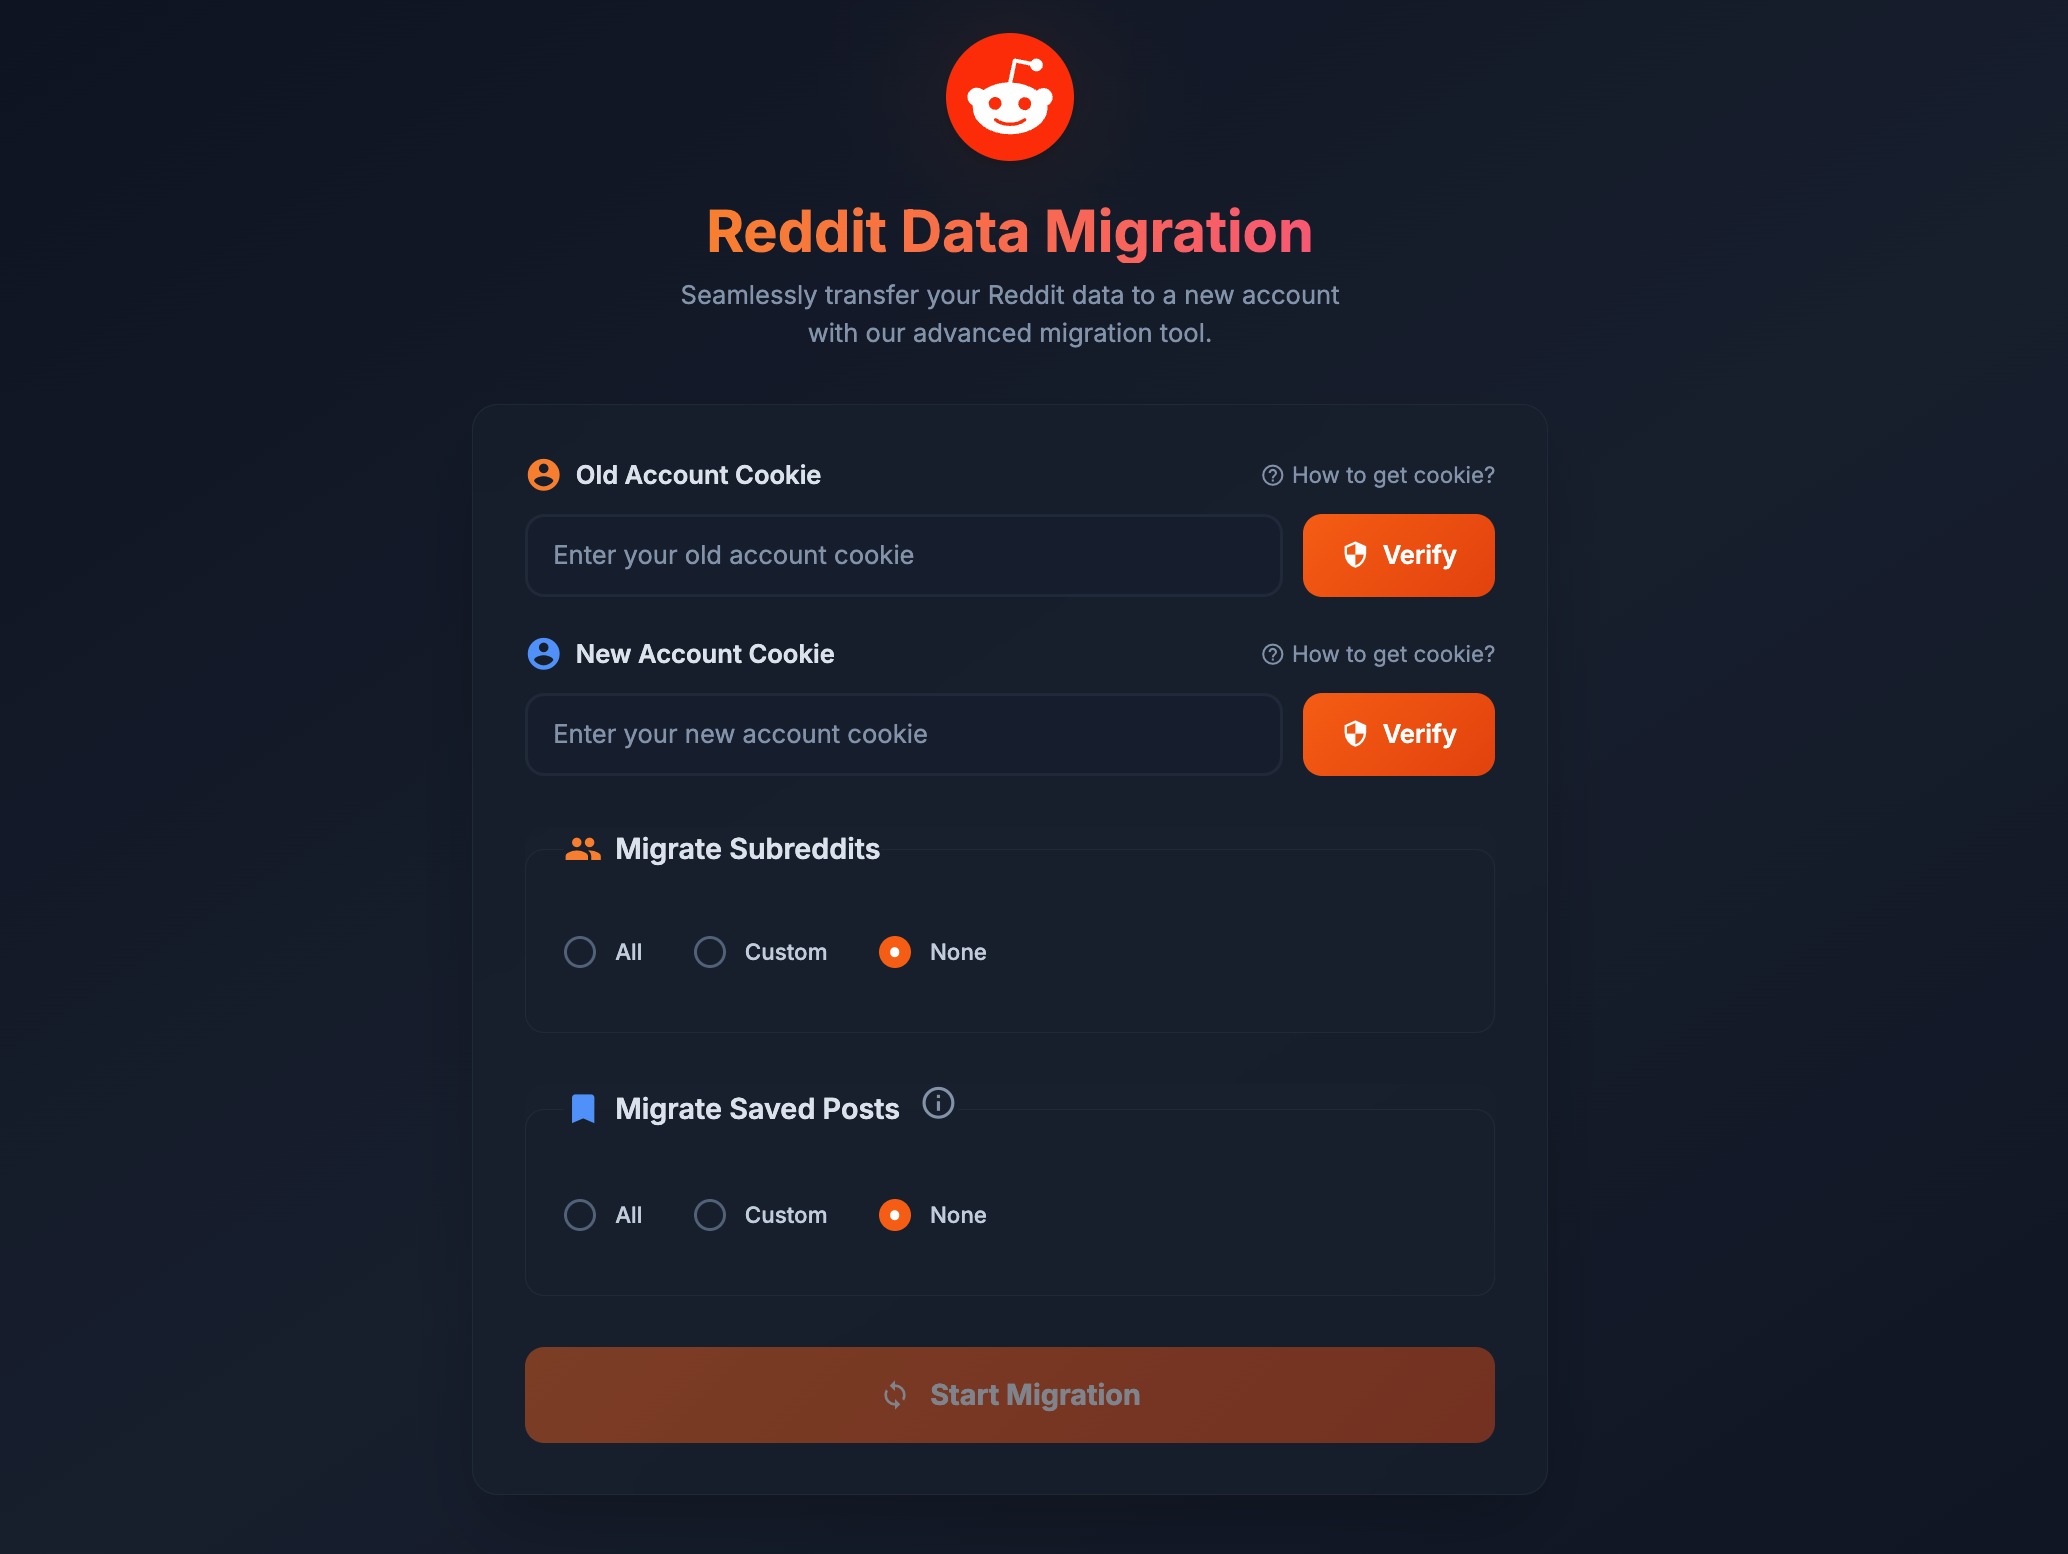
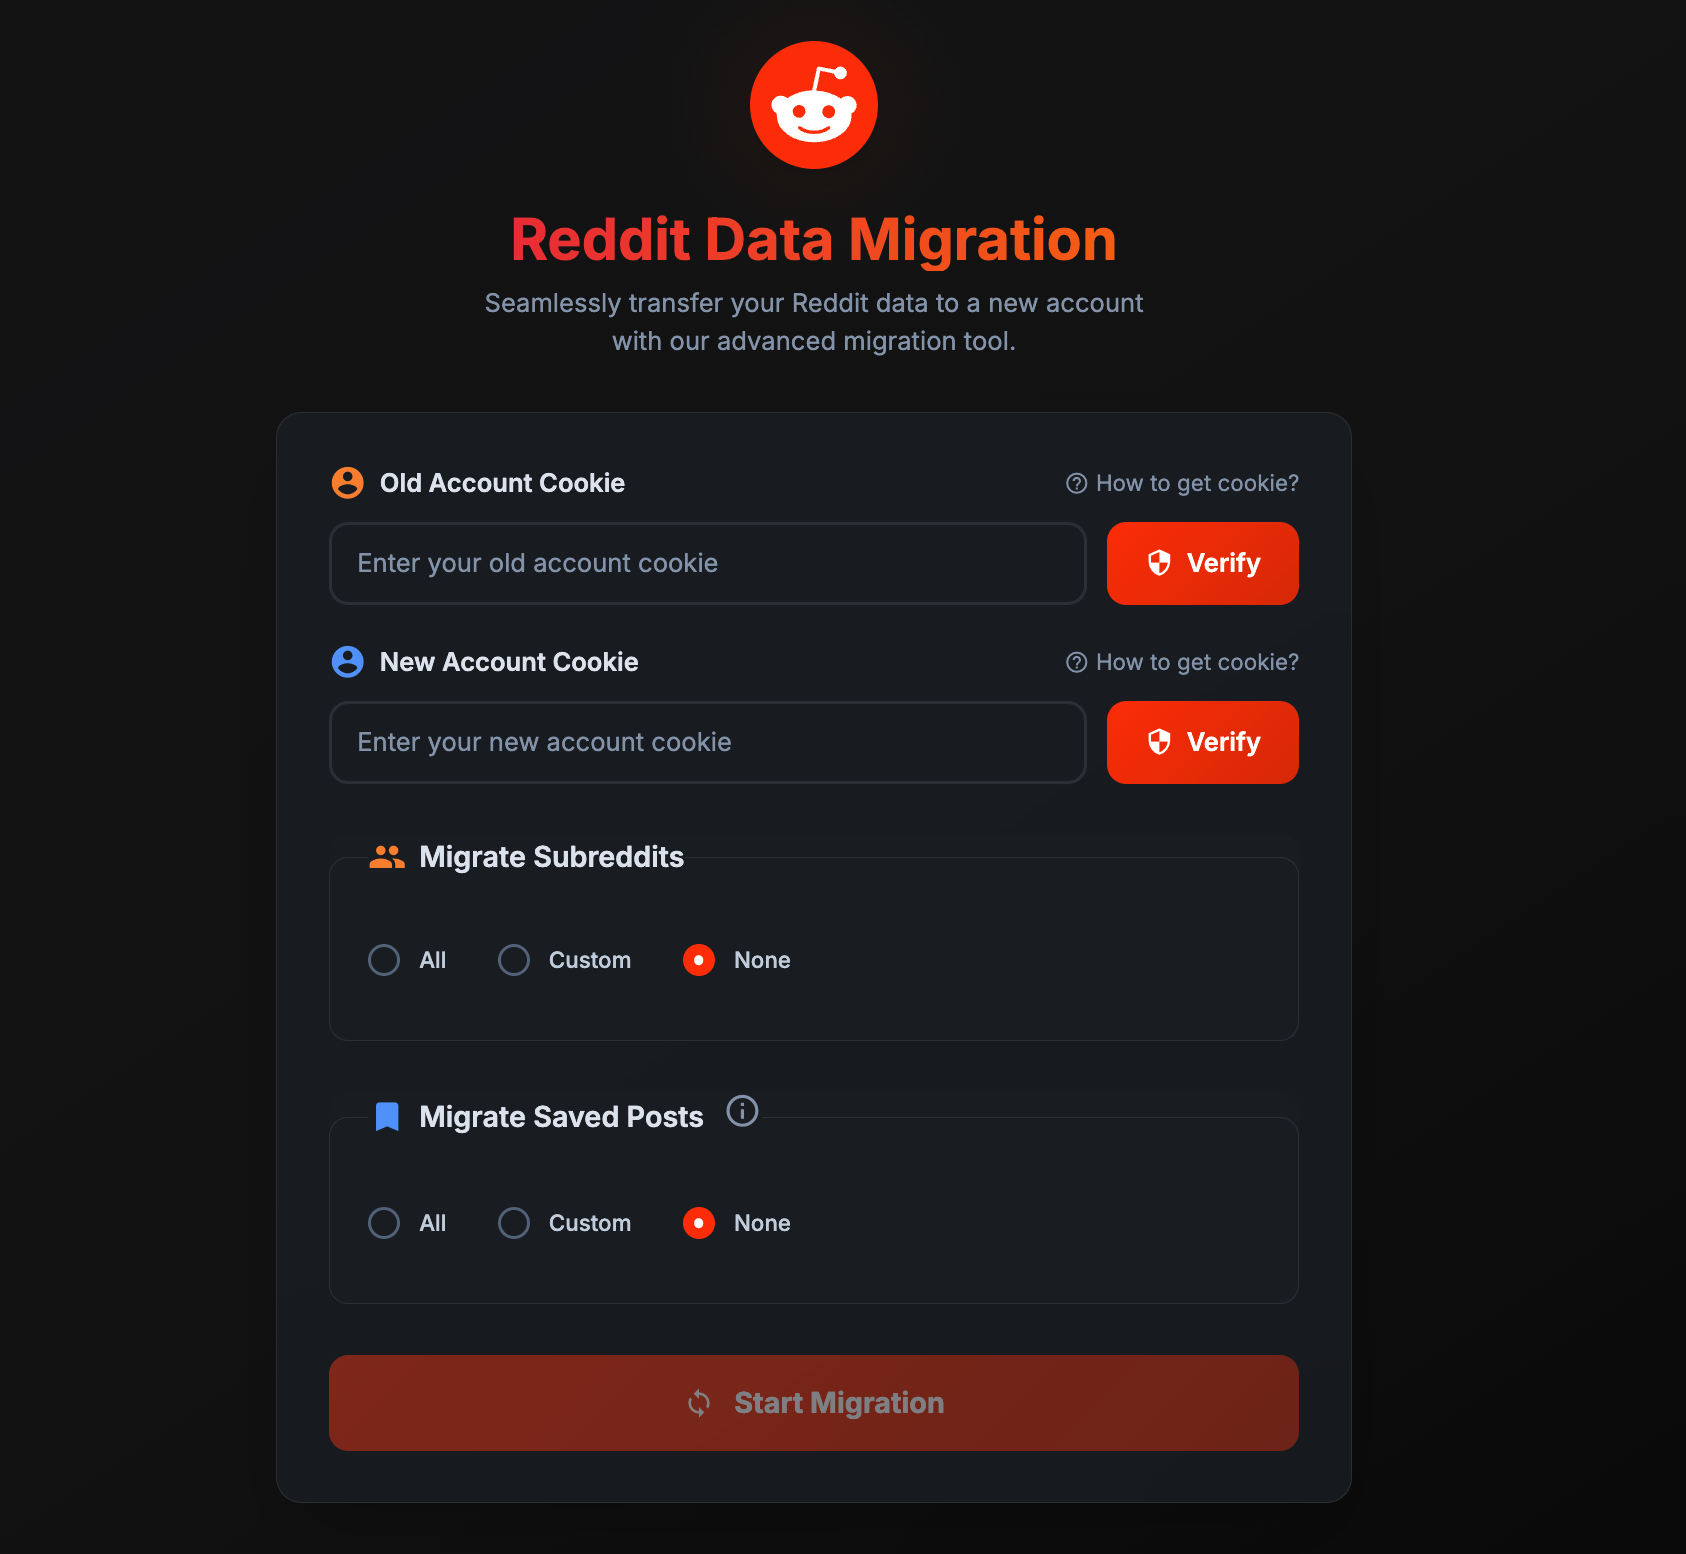
feat: update UI styles and assets for Reddit migration tool similar to Reddit
- Updated button styles and form inputs in index.html to align with Reddit's branding.
- Enhanced dark and light mode themes for improved user experience.
- Updated app_home.png asset to reflect new design changes.

diff --git a/web/static/index.html b/web/static/index.html
@@ -68,27 +68,27 @@
             background: #9ca3af;
         }
 
-        /* Enhanced button styles */
+        /* Enhanced button styles - Reddit Orange Theme */
         .btn-primary {
-            background: linear-gradient(135deg, #f97316 0%, #ea580c 100%);
+            background: linear-gradient(135deg, #FF4500 0%, #e03e00 100%);
             transition: all 0.2s ease;
         }
 
         .btn-primary:hover {
-            background: linear-gradient(135deg, #ea580c 0%, #dc2626 100%);
+            background: linear-gradient(135deg, #e03e00 0%, #cc3700 100%);
             transform: translateY(-1px);
-            box-shadow: 0 4px 12px rgba(249, 115, 22, 0.4);
+            box-shadow: 0 4px 12px rgba(255, 69, 0, 0.4);
         }
 
         .btn-secondary {
-            background: linear-gradient(135deg, #3b82f6 0%, #2563eb 100%);
+            background: linear-gradient(135deg, #0079D3 0%, #0066B3 100%);
             transition: all 0.2s ease;
         }
 
         .btn-secondary:hover {
-            background: linear-gradient(135deg, #2563eb 0%, #1d4ed8 100%);
+            background: linear-gradient(135deg, #0066B3 0%, #005299 100%);
             transform: translateY(-1px);
-            box-shadow: 0 4px 12px rgba(59, 130, 246, 0.4);
+            box-shadow: 0 4px 12px rgba(0, 121, 211, 0.4);
         }
 
         .btn-success {
@@ -114,14 +114,14 @@
         }
 
         .btn-light-secondary {
-            background: linear-gradient(135deg, #60a5fa 0%, #3b82f6 100%);
+            background: linear-gradient(135deg, #0079D3 0%, #0066B3 100%);
             transition: all 0.2s ease;
         }
 
         .btn-light-secondary:hover {
-            background: linear-gradient(135deg, #3b82f6 0%, #2563eb 100%);
+            background: linear-gradient(135deg, #0066B3 0%, #005299 100%);
             transform: translateY(-1px);
-            box-shadow: 0 4px 12px rgba(96, 165, 250, 0.4);
+            box-shadow: 0 4px 12px rgba(0, 121, 211, 0.4);
         }
 
         .btn-light-cancel {
@@ -135,20 +135,20 @@
             box-shadow: 0 4px 12px rgba(148, 163, 184, 0.4);
         }
 
-        /* Enhanced form inputs */
+        /* Enhanced form inputs - Reddit style */
         .form-input {
-            background: rgba(30, 41, 59, 0.5);
-            border: 2px solid rgba(71, 85, 105, 0.3);
+            background: rgba(33, 38, 45, 0.5);
+            border: 2px solid rgba(114, 118, 125, 0.3);
             transition: all 0.2s ease;
         }
 
         .form-input:focus {
-            background: rgba(30, 41, 59, 0.8);
-            border-color: #f97316;
-            box-shadow: 0 0 0 3px rgba(249, 115, 22, 0.1);
+            background: rgba(33, 38, 45, 0.8);
+            border-color: #FF4500;
+            box-shadow: 0 0 0 3px rgba(255, 69, 0, 0.1);
         }
 
-        /* Custom radio button styling */
+        /* Custom radio button styling - Reddit Orange */
         .custom-radio {
             appearance: none;
             width: 1.25rem;
@@ -162,8 +162,8 @@
         }
 
         .custom-radio:checked {
-            border-color: #f97316;
-            background: #f97316;
+            border-color: #FF4500;
+            background: #FF4500;
         }
 
         .custom-radio:checked::after {
@@ -178,11 +178,11 @@
             background: white;
         }
 
-        /* Glassmorphism effect */
+        /* Glassmorphism effect - Reddit Dark Theme */
         .glass-card {
-            background: rgba(30, 41, 59, 0.7);
+            background: rgba(33, 38, 45, 0.8);
             backdrop-filter: blur(20px);
-            border: 1px solid rgba(71, 85, 105, 0.3);
+            border: 1px solid rgba(114, 118, 125, 0.3);
         }
 
         /* Enhanced animations */
@@ -219,90 +219,90 @@
             animation: pulse-custom 2s cubic-bezier(0.4, 0, 0.6, 1) infinite;
         }
 
-        /* Light mode styles */
+        /* Light mode styles - Reddit Light Theme */
         .light-mode {
-            color: #1e293b !important;
+            color: #1c1c1c !important;
         }
 
         .light-mode .glass-card {
-            background: rgba(255, 255, 255, 0.8) !important;
+            background: rgba(255, 255, 255, 0.9) !important;
             backdrop-filter: blur(20px);
-            border: 1px solid rgba(203, 213, 225, 0.3) !important;
+            border: 1px solid rgba(237, 239, 241, 0.8) !important;
         }
 
         .light-mode .form-input {
-            background: rgba(255, 255, 255, 0.8) !important;
-            border: 2px solid rgba(203, 213, 225, 0.5) !important;
-            color: #1e293b !important;
+            background: rgba(255, 255, 255, 0.9) !important;
+            border: 2px solid rgba(237, 239, 241, 0.8) !important;
+            color: #1c1c1c !important;
         }
 
         .light-mode .form-input::placeholder {
-            color: #64748b !important;
+            color: #787c82 !important;
         }
 
         .light-mode .form-input:focus {
-            background: rgba(255, 255, 255, 0.9) !important;
-            border-color: #f97316 !important;
+            background: rgba(255, 255, 255, 1) !important;
+            border-color: #FF4500 !important;
         }
 
         .light-mode .text-slate-200 {
-            color: #1e293b !important;
+            color: #1c1c1c !important;
         }
 
         .light-mode .text-slate-300 {
-            color: #475569 !important;
+            color: #4c5155 !important;
         }
 
         .light-mode .text-slate-400 {
-            color: #64748b !important;
+            color: #787c82 !important;
         }
 
         .light-mode .border-slate-600 {
-            border-color: #cbd5e1 !important;
+            border-color: #edeff1 !important;
         }
 
         .light-mode .border-slate-700 {
-            border-color: #e2e8f0 !important;
+            border-color: #edeff1 !important;
         }
 
         .light-mode .bg-slate-700\/30 {
-            background: rgba(241, 245, 249, 0.8) !important;
+            background: rgba(246, 247, 248, 0.8) !important;
         }
 
         .light-mode .custom-radio {
-            border-color: #94a3b8 !important;
+            border-color: #a8aaab !important;
         }
 
         /* Light mode modal and text enhancements */
         .light-mode .text-slate-100 {
-            color: #0f172a !important;
+            color: #1c1c1c !important;
         }
 
         .light-mode #modalTitle {
-            color: #0f172a !important;
+            color: #1c1c1c !important;
         }
 
         .light-mode #itemsList {
-            background: rgba(255, 255, 255, 0.9) !important;
-            border-color: #cbd5e1 !important;
+            background: rgba(255, 255, 255, 0.95) !important;
+            border-color: #edeff1 !important;
         }
 
         .light-mode .item-row {
-            border-color: #e2e8f0 !important;
+            border-color: #edeff1 !important;
         }
 
         .light-mode .item-row:hover {
-            background: rgba(248, 250, 252, 0.8) !important;
+            background: rgba(246, 247, 248, 0.9) !important;
         }
 
         .light-mode #searchInput {
-            background: rgba(255, 255, 255, 0.9) !important;
-            border-color: #cbd5e1 !important;
-            color: #1e293b !important;
+            background: rgba(255, 255, 255, 0.95) !important;
+            border-color: #edeff1 !important;
+            color: #1c1c1c !important;
         }
 
         .light-mode #searchInput::placeholder {
-            color: #64748b !important;
+            color: #787c82 !important;
         }
 
         .light-mode .bg-black {
@@ -311,40 +311,40 @@
 
         .light-mode #selectedCount,
         .light-mode #totalCount {
-            color: #1e293b !important;
+            color: #1c1c1c !important;
         }
 
         .light-mode .text-orange-400 {
-            color: #ea580c !important;
+            color: #FF4500 !important;
         }
 
         /* Fix modal text colors in light mode */
         .light-mode #selectionModal .text-slate-200 {
-            color: #1e293b !important;
+            color: #1c1c1c !important;
         }
 
         .light-mode #selectionModal .text-slate-300 {
-            color: #475569 !important;
+            color: #4c5155 !important;
         }
 
         .light-mode #selectionModal .text-slate-400 {
-            color: #64748b !important;
+            color: #787c82 !important;
         }
 
         .light-mode #cookieHelpModal .text-slate-200 {
-            color: #1e293b !important;
+            color: #1c1c1c !important;
         }
 
         .light-mode #cookieHelpModal .text-slate-300 {
-            color: #475569 !important;
+            color: #4c5155 !important;
         }
 
         .light-mode #cookieHelpModal .text-slate-400 {
-            color: #64748b !important;
+            color: #787c82 !important;
         }
 
         .light-mode .glass-card .text-orange-400 {
-            color: #ea580c !important;
+            color: #FF4500 !important;
         }
 
         .light-mode .glass-card .text-emerald-400 {
@@ -358,7 +358,7 @@
 </head>
 
 <body
-    class="bg-gradient-to-br from-slate-900 via-slate-800 to-slate-900 text-slate-100 min-h-screen transition-all duration-300">
+    class="bg-gradient-to-br from-zinc-900 via-neutral-900 to-black text-white min-h-screen transition-all duration-300">
     <!-- Enhanced Dark Mode Toggle -->
     <div class="fixed top-6 right-6 z-50">
         <button id="darkModeToggle"
@@ -376,7 +376,7 @@
                 <img src="assets/reddit-logo.svg" alt="Reddit Logo" class="relative h-20 w-20 drop-shadow-lg" />
             </div>
             <h1
-                class="text-4xl font-bold bg-gradient-to-r from-orange-400 to-rose-400 bg-clip-text text-transparent mb-2">
+                class="text-4xl font-bold bg-gradient-to-r from-red-500 to-orange-500 bg-clip-text text-transparent mb-2">
                 Reddit Data Migration
             </h1>
             <p class="text-slate-400 text-center max-w-md">
@@ -391,7 +391,7 @@
                 <label for="oldAccessToken"
                     class="block text-base font-semibold text-slate-200 mb-3 flex items-center justify-between">
                     <span class="flex items-center">
-                        <span class="material-icons mr-2 text-orange-400">account_circle</span>
+                        <span class="material-icons mr-2" style="color: #FF4500;">account_circle</span>
                         Old Account Cookie
                     </span>
                     <button onclick="showCookieHelp()"
@@ -435,7 +435,7 @@
                 <label for="newAccessToken"
                     class="block text-base font-semibold text-slate-200 mb-3 flex items-center justify-between">
                     <span class="flex items-center">
-                        <span class="material-icons mr-2 text-blue-400">account_circle</span>
+                        <span class="material-icons mr-2" style="color: #0079D3;">account_circle</span>
                         New Account Cookie
                     </span>
                     <button onclick="showCookieHelp()"
@@ -479,7 +479,7 @@
                 <!-- Subreddits Section -->
                 <fieldset class="glass-card rounded-xl p-6" id="subreddit-options">
                     <legend class="text-lg font-semibold text-slate-200 mb-4 flex items-center">
-                        <span class="material-icons mr-2 text-orange-400">group</span>
+                        <span class="material-icons mr-2" style="color: #FF4500;">group</span>
                         Migrate Subreddits
                     </legend>
                     <div class="flex items-center space-x-8 mb-4">
@@ -534,7 +534,7 @@
                 <!-- Saved Posts Section -->
                 <fieldset class="glass-card rounded-xl p-6" id="saved-posts-options">
                     <legend class="text-lg font-semibold text-slate-200 mb-4 flex items-center">
-                        <span class="material-icons mr-2 text-blue-400">bookmark</span>
+                        <span class="material-icons mr-2" style="color: #0079D3;">bookmark</span>
                         Migrate Saved Posts
                         <span class="ml-3 relative">
                             <span

diff --git a/web/static/index.js b/web/static/index.js
@@ -63,14 +63,14 @@ class DarkModeManager {
   enableDarkMode() {
     document.body.classList.remove("light-mode");
     document.body.className =
-      "bg-gradient-to-br from-slate-900 via-slate-800 to-slate-900 text-slate-100 min-h-screen transition-all duration-300";
+      "bg-gradient-to-br from-zinc-900 via-neutral-900 to-black text-white min-h-screen transition-all duration-300";
     this.themeIcon.textContent = "light_mode";
   }
 
   enableLightMode() {
     document.body.classList.add("light-mode");
     document.body.className =
-      "bg-gradient-to-br from-slate-100 via-slate-50 to-slate-200 text-slate-900 min-h-screen transition-all duration-300 light-mode";
+      "bg-gradient-to-br from-white via-gray-50 to-gray-100 text-gray-900 min-h-screen transition-all duration-300 light-mode";
     this.themeIcon.textContent = "dark_mode";
   }
 }
